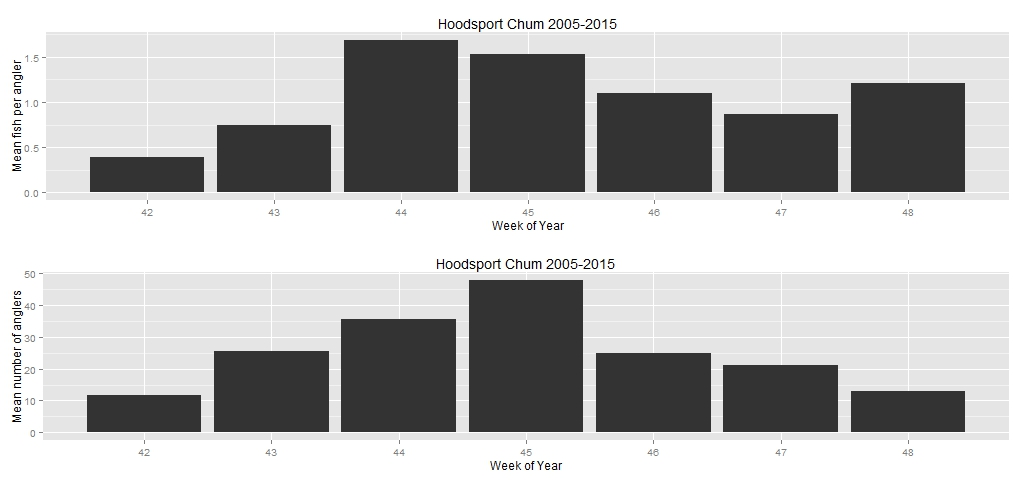
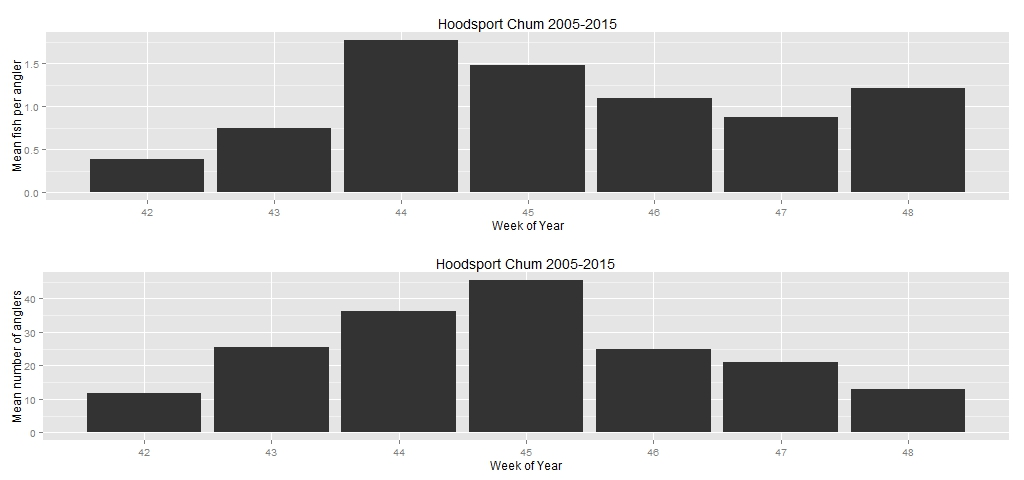
Update with newer 2015 data

diff --git a/README.md b/README.md
@@ -21,14 +21,16 @@ Next, I used the same data to determine the mean number of anglers per week over
 The plots may be found in hoodsport.jpg. 
 
 
-The first "Sweet spot" is the 44th week of the calendar year. Average number of anglers is 35.5 that week, and average fish caught per angler is 1.69.
-Fishing goes down slightly on week 45; seeing on average, 1.5 fish caught per angler, with 47.9 anglers trying their luck.
-Week 46 has on average only 1.1 fish caught per angler, but there are fewer folks trying with an average of 24.8 folks out there fishing. That's ~ a 48% drop in people from the previous week.
-Week 47 is hard fishing, with .87 fish caught per angler, but fewer folks to contend with, 21 people on average.
-Week 48 seems to be a second "sweet spot"; barely anyone fishing, only 13 folks on average, but they are doing pretty well, with 1.21 fish per angler.
+The first "Sweet spot" is the 44th week of the calendar year. Average number of anglers is 36.13 that week, and average fish caught per angler is 1.77.  
+Fishing goes down slightly on week 45; seeing on average, 1.48 fish caught per angler, with 45.5 anglers trying their luck.  
+Week 46 has on average only 1.1 fish caught per angler, but there are fewer folks trying with an average of 24.8 folks out there fishing. That's ~ a 48% drop in people from the previous week.  
+Week 47 is hard fishing, with .87 fish caught per angler, but fewer folks to contend with, 21 people on average.  
+Week 48 seems to be a second "sweet spot"; barely anyone fishing, only 13 folks on average, but they are doing pretty well, with 1.21 fish per angler  
 
 
-Next exercise will be to separate the data into even and odd years. Since Pink salmon run only in odd years, we can look at whether
-the chum salmon runs tend to be earlier or later on years when the Pink salmon return.
+
+Next steps: 
+Separate the data into even and odd years. Since Pink salmon run only in odd years, we can look at whether the chum salmon runs tend to be earlier or later on years when the Pink salmon return.  
+Run a similar analysis using the hatchery escapement reports
 
 
